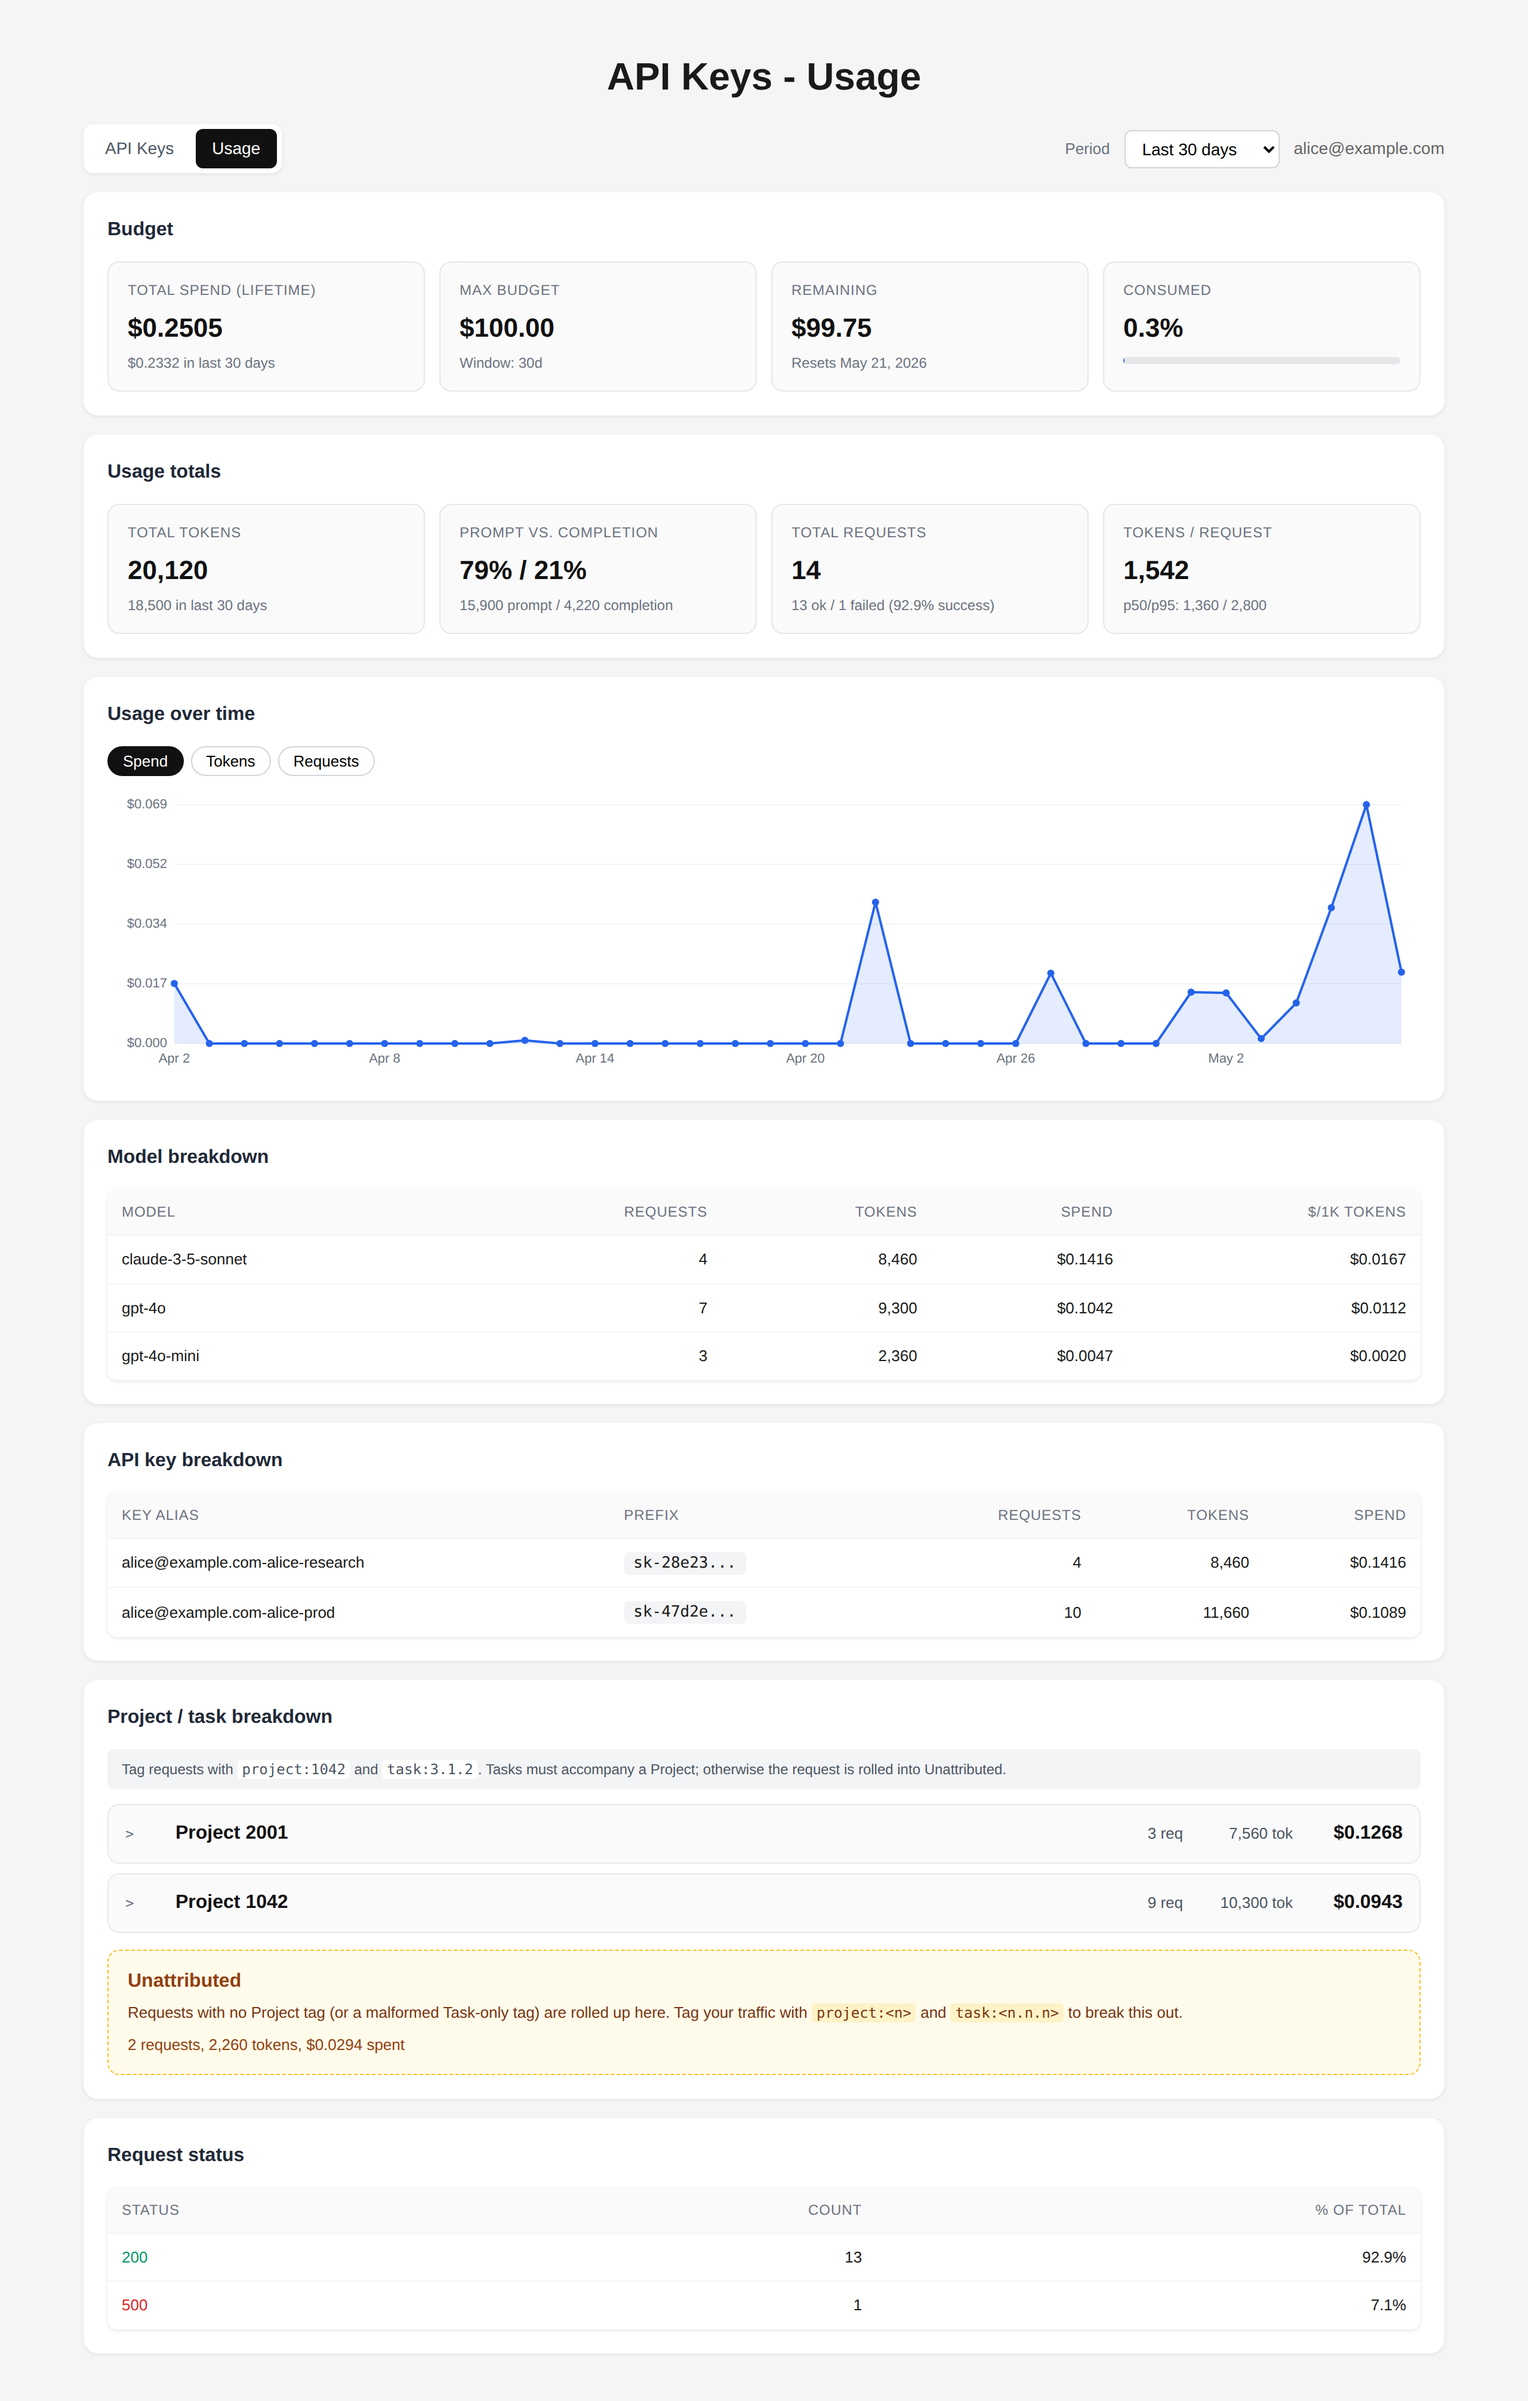
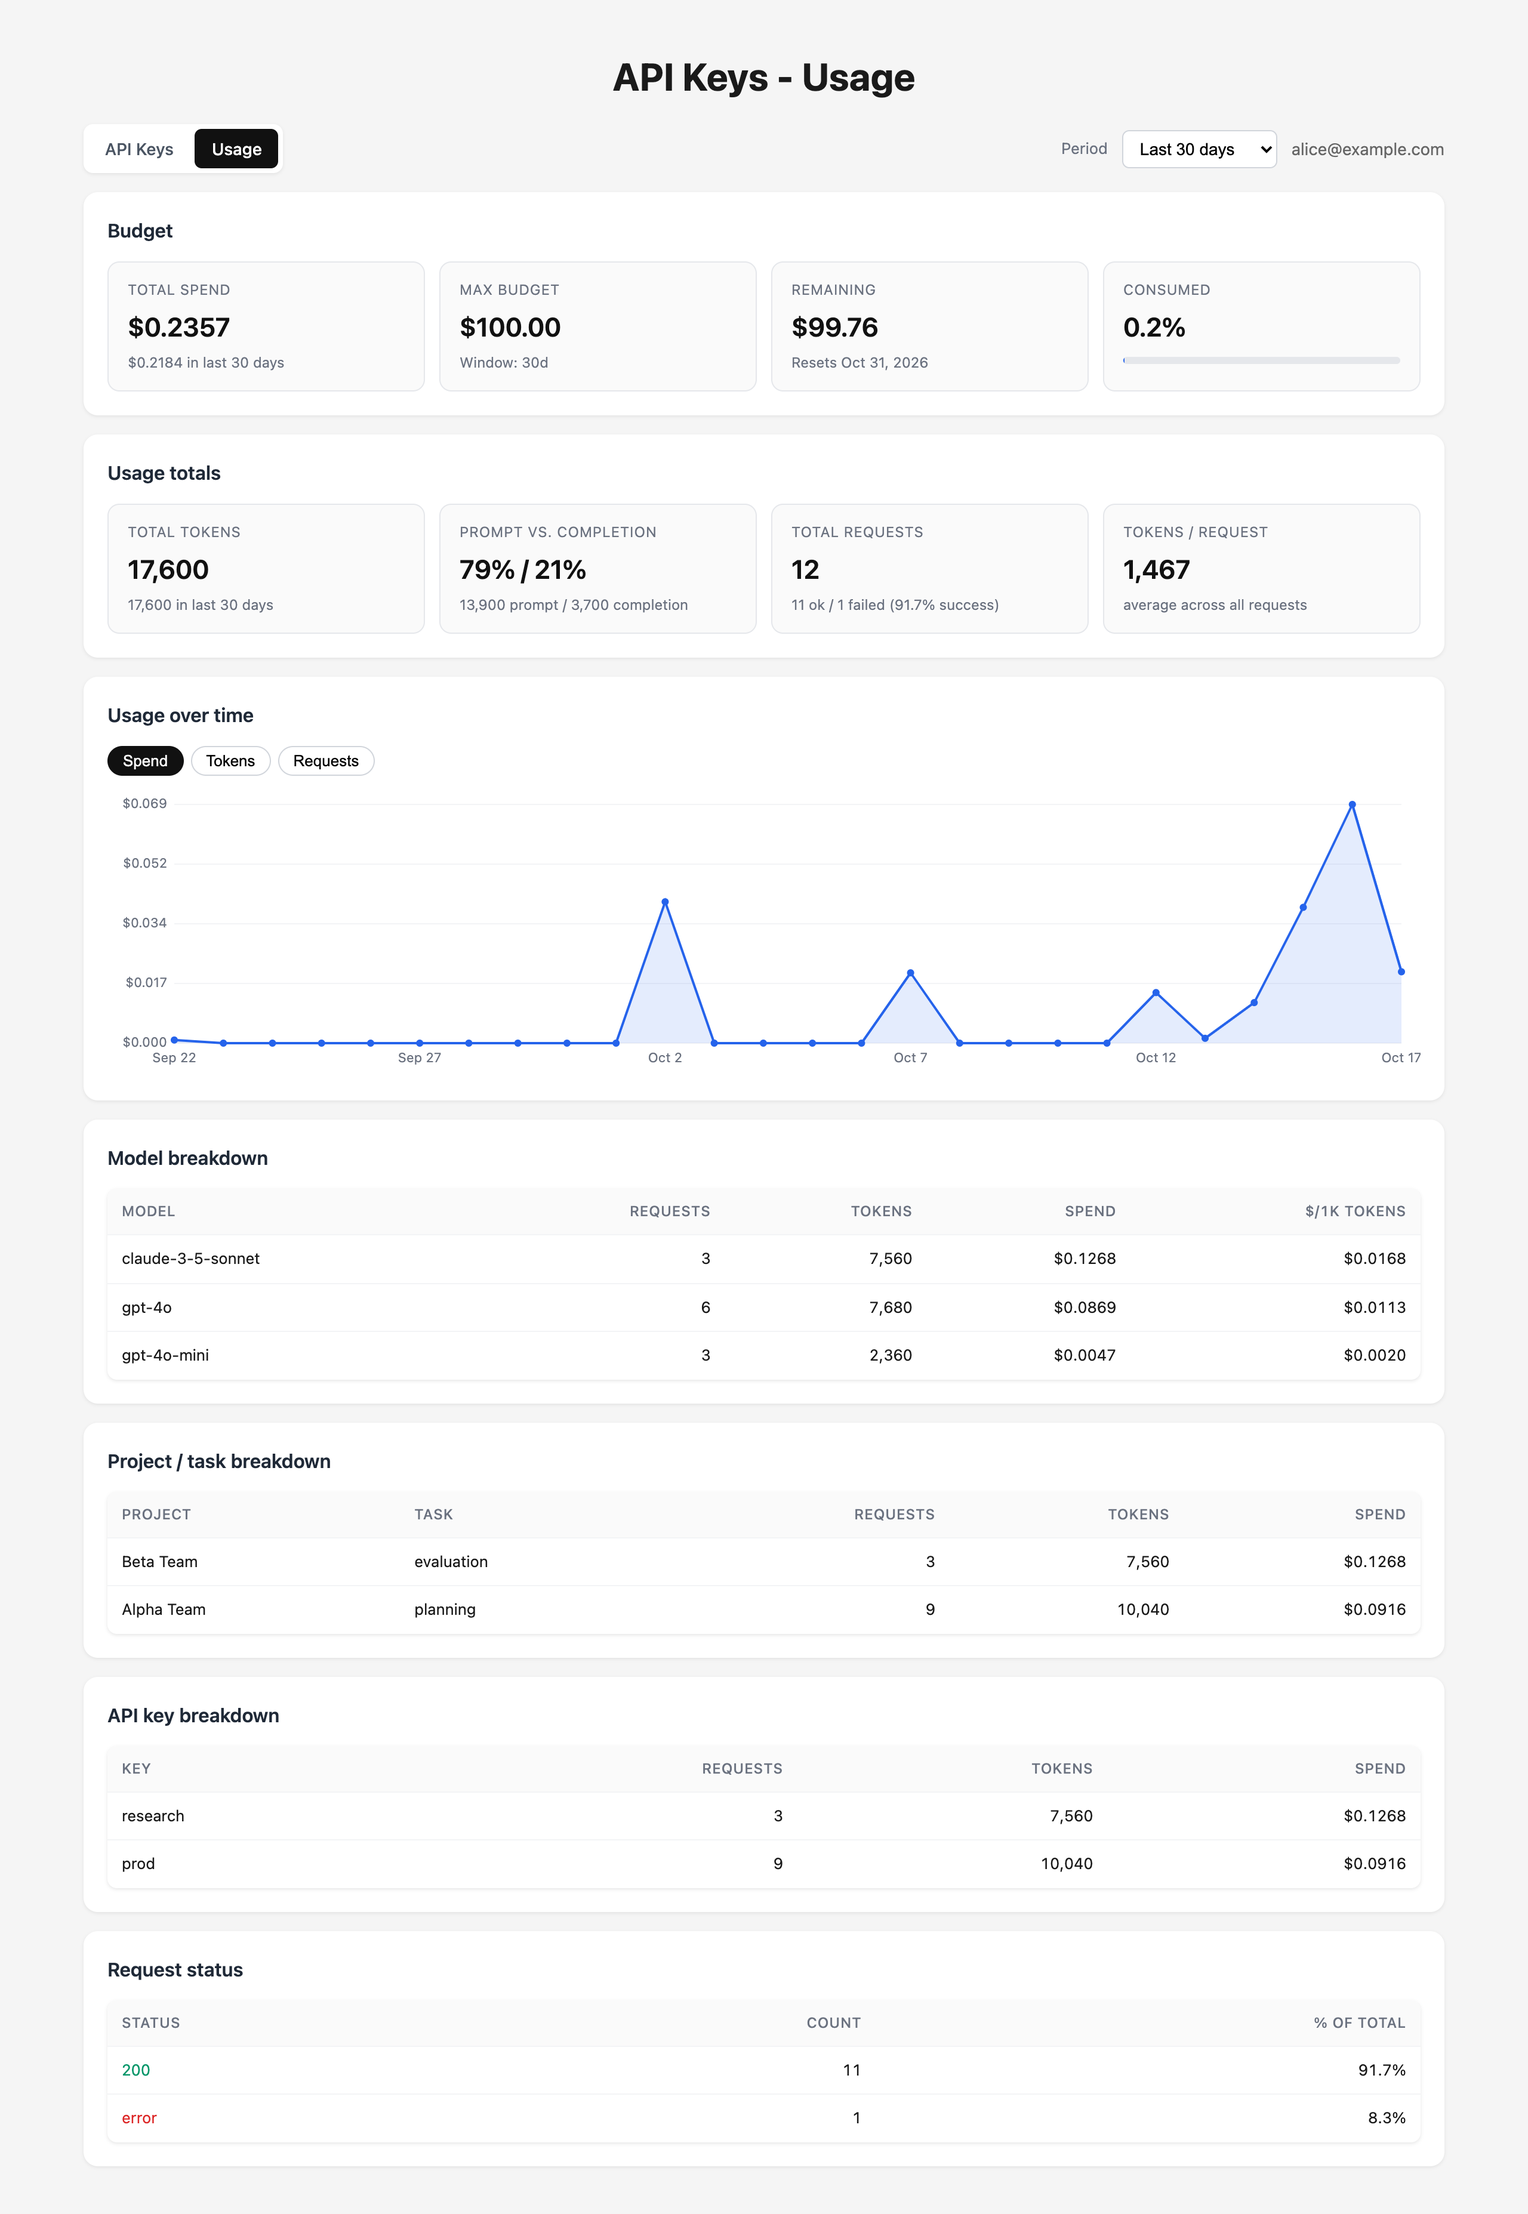
Task next to Project in the keys table; current screenshots
With teams, the keys table showed the team (Project) after Name and the
optional Task before the actions, as two features had placed them. The
Task now sits next to the team: Name | Project | Task | Key | ... The
required metadata columns stay before the actions.

The mock makes its sample usage when the usage is first read, not at
the user's first lookup, which key creation does before any key exists:
the usage now matches keys made through the app with the sample names
(prod, research), and carries each key's team as LiteLLM's rollup does.

The README's screenshots of the keys and Usage pages are retaken from
the app against the mock, with teams on and TEAM_LABEL=Project.

diff --git a/static/app.js b/static/app.js
@@ -149,14 +149,22 @@ function renderMetadataHeaders() {
     Array.prototype.slice.call(head.querySelectorAll("th[data-meta]")).forEach(function(th) {
         th.parentNode.removeChild(th);
     });
-    // Insert metadata headers before the last (actions) column
+    // Insert metadata headers before the last (actions) column, but the
+    // optional Task next to the team column when there is one.
     var lastTh = head.lastElementChild;
+    var teamTh = document.getElementById("team-col-header");
     metadataColumns().forEach(function(c) {
         var th = document.createElement("th");
         th.setAttribute("data-meta", c.field);
         th.textContent = c.label;
-        head.insertBefore(th, lastTh);
+        head.insertBefore(th, besideTeam(c) ? teamTh.nextSibling : lastTh);
     });
+}
+
+// With teams, the optional Task goes next to the team column (Project | Task),
+// as a key's two labels; required metadata columns stay before the actions.
+function besideTeam(c) {
+    return teamsEnabled && !c.required;
 }
 
 // The metadata a key is made with, and shown with in the keys table: the
@@ -278,6 +286,7 @@ async function loadUser() {
         renderTeamSelect();
         // The keys may have loaded first: show their team column and names.
         renderTeamHeader();
+        renderMetadataHeaders();
         if (keysLoaded) renderKeys();
     }
 }
@@ -356,7 +365,7 @@ function renderKeys() {
     tableBox.classList.remove("hidden");
     noKeys.classList.add("hidden");
 
-    var metaFields = metadataColumns().map(function(c) { return c.field; });
+    var cols = metadataColumns();
 
     // Rebuild rows using DOM APIs rather than HTML concatenation so no
     // untrusted value ever enters an HTML/JS parsing context.
@@ -365,6 +374,7 @@ function renderKeys() {
         var tr = document.createElement("tr");
         appendCell(tr, k.display_name || k.name);
         if (teamsEnabled) appendCell(tr, teamLabel(k)).className = "team-cell";
+        appendMetadataCells(tr, k, cols.filter(besideTeam));
 
         var prefixCell = document.createElement("td");
         var prefixSpan = document.createElement("span");
@@ -393,10 +403,7 @@ function renderKeys() {
         statusCell.appendChild(statusSpan);
         tr.appendChild(statusCell);
 
-        metaFields.forEach(function(f) {
-            var v = (k.metadata && k.metadata[f]) ? k.metadata[f] : "-";
-            appendCell(tr, v);
-        });
+        appendMetadataCells(tr, k, cols.filter(function(c) { return !besideTeam(c); }));
 
         var actionsCell = document.createElement("td");
         if (k.is_active) {
@@ -409,6 +416,12 @@ function renderKeys() {
         tr.appendChild(actionsCell);
 
         tbody.appendChild(tr);
+    });
+}
+
+function appendMetadataCells(tr, k, cols) {
+    cols.forEach(function(c) {
+        appendCell(tr, (k.metadata && k.metadata[c.field]) ? k.metadata[c.field] : "-");
     });
 }
 

diff --git a/mocks/litellm_mock.py b/mocks/litellm_mock.py
@@ -167,7 +167,10 @@ async def get_user(user_id: str = "", authorization: str = Header()):
         "budget_reset_at",
         (datetime.now(timezone.utc) + timedelta(days=14)).isoformat(),
     )
-    _seed_daily_activity(user_id)
+    # Spend from the synthetic activity, if it's been made: it's made when the
+    # activity is first read (the Usage page reads it before this), not here,
+    # where it would come before the user's first key (key creation looks the
+    # user up first) and could never match the keys made through the app.
     spend_total = sum(
         float(r["metrics"]["spend"])
         for r in daily_activity_db.get(user_id, [])
@@ -499,6 +502,16 @@ def _seed_daily_activity(user_id: str) -> None:
         }
         return defaults.get(alias, {})
 
+    def _resolve_team(alias: str) -> str | None:
+        """The key's team, which LiteLLM's daily rollup keeps for each key."""
+        for record in keys_db.values():
+            if (
+                record.get("user_id") == user_id
+                and record.get("key_alias", "").endswith(alias)
+            ):
+                return record.get("team_id")
+        return {"prod": "team-alpha", "research": "team-beta"}.get(alias)
+
     days: list[dict] = []
     for days_ago, events in samples:
         d = (today - timedelta(days=days_ago)).isoformat()
@@ -518,6 +531,7 @@ def _seed_daily_activity(user_id: str) -> None:
                     "metrics": _zero(),
                     "metadata": {
                         "key_alias": _alias(alias),
+                        "team_id": _resolve_team(alias),
                         **_resolve_key_metadata(alias),
                     },
                 },
